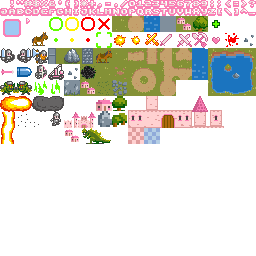
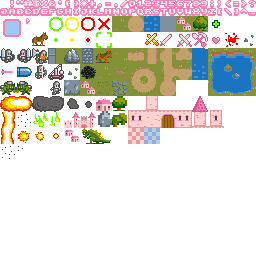
feat: variable movement speed, scorched ground, nuclaer prototype

diff --git a/src/main.ts b/src/main.ts
@@ -5,7 +5,12 @@ import { drawSprite2, drawText } from "./engine/renderUtils.ts";
 import { TileMap } from "./engine/tilemap.ts";
 import { Game } from "./game/game.ts";
 import { generateLevel } from "./game/levelGenerator.ts";
-import { FoeComponent, PlayerComponent, SpriteComponent } from "./game/components.ts";
+import {
+  FoeComponent,
+  PlayerComponent,
+  ShootComponent,
+  SpriteComponent,
+} from "./game/components.ts";
 import { inputSystem } from "./game/inputSystem.ts";
 import { moveSystem } from "./game/moveSystem.ts";
 import { enemySystem } from "./game/enemySystem.ts";
@@ -79,15 +84,18 @@ function render() {
 
     if (game.commandPreview.length > 0) {
       game.commandPreview.forEach((command, cidx) => {
+        const player = game.ecs.getComponent<PlayerComponent>(command.entity, "player")!;
+
         if (command.type === "move") {
           command.path.forEach((p, idx) => {
-            drawSprite2(renderer, p.x * 16, p.y * 16, 16 * 2 + 3, idx > 4 ? 0.2 : 1);
+            drawSprite2(renderer, p.x * 16, p.y * 16, 16 * 2 + 3, idx > player.speed - 1 ? 0.2 : 1);
           });
         }
+
         const invalid =
           cidx > 0 &&
           game.commandPreview[cidx - 1].type === "move" &&
-          (game.commandPreview[cidx - 1] as MoveCommand).path.length > 5;
+          (game.commandPreview[cidx - 1] as MoveCommand).path.length > player!.speed;
 
         if (command.type === "mine") {
           drawSprite2(
@@ -106,6 +114,17 @@ function render() {
             16 * 2 + 11,
             invalid ? 0.3 : 1,
           );
+        }
+        if (command.type === "shoot") {
+          drawSprite2(renderer, command.pos.x * 16, command.pos.y * 16, 16 * 1 + 6, 1);
+          const sprite = game.ecs.getComponent<SpriteComponent>(game.activePlayer!, "sprite")!;
+          const dx = (command.pos.x * 16 - sprite.x) / 10;
+          const dy = (command.pos.y * 16 - sprite.y) / 10;
+          for (let i = 0; i < 10; i++) {
+            const r = Math.PI / 10;
+            const h = Math.sin(i * r) * 2 * 16;
+            drawSprite2(renderer, sprite.x + dx * i, sprite.y + dy * i - h, 16 * 2 + 5, 1);
+          }
         }
       });
     }
@@ -132,6 +151,17 @@ function render() {
         );
         break;
       }
+      case "shoot": {
+        const i = currentCmd.idx;
+        const sprite = game.ecs.getComponent<SpriteComponent>(currentCmd.entity, "sprite")!;
+        const shooter = game.ecs.getComponent<ShootComponent>(currentCmd.entity, "shoot")!;
+        const dx = (currentCmd.pos.x * 16 - sprite.x) / 10;
+        const dy = (currentCmd.pos.y * 16 - sprite.y) / 10;
+        const r = Math.PI / 10;
+        const h = Math.sin(i * r) * 2 * 16;
+        const a = -Math.cos(i * r);
+        drawSprite2(renderer, sprite.x + dx * i, sprite.y + dy * i - h, shooter.bullet, 1, a);
+      }
     }
   }
 
@@ -141,6 +171,16 @@ function render() {
     16 * 16 + 2,
     "Ore: " + game.inventory.ore + "    XP: " + game.inventory.xp,
   );
+
+  drawSprite2(renderer, 16 * 10, 16 * 10, (16 * 7 + (Math.random() > 0.5 ? 0 : 16)) | 0);
+  drawSprite2(renderer, 16 * 10, 16 * 11, (16 * 7 + (Math.random() > 0.5 ? 0 : 16)) | 0);
+  drawSprite2(renderer, 16 * 10 - 8, 16 * 9, 16 * 6 + 0);
+  drawSprite2(renderer, 16 * 11 - 8, 16 * 9, 16 * 6 + 1);
+  for (let i = 0; i < 10; i++) {
+    const x = Math.random() * 16 - 8;
+    const y = Math.random() * 16 - 8;
+    drawSprite2(renderer, 16 * 10 + x * 2, 16 * 9 + y * 0.5, 16 * 8 + 1, 0.5);
+  }
 
   renderer.render();
 }

diff --git a/src/game/inputSystem.ts b/src/game/inputSystem.ts
@@ -1,5 +1,5 @@
 import { Cursor, Game } from "./game.ts";
-import { FoeComponent, PlayerComponent, SpriteComponent } from "./components.ts";
+import { FoeComponent, PlayerComponent, ShootComponent, SpriteComponent } from "./components.ts";
 import { findPath, Point } from "../engine/findPath.ts";
 import { findSprite } from "./levelGenerator.ts";
 
@@ -26,10 +26,14 @@ export function inputSystem(game: Game) {
         } else if (game.commandPreview.length > 0) {
           let chopRemaining = false;
           if (game.commandPreview[0].type === "move") {
-            if (game.commandPreview[0].path.length > 5) {
+            const player = game.ecs.getComponent<PlayerComponent>(
+              game.commandPreview[0].entity,
+              "player",
+            )!;
+            if (game.commandPreview[0].path.length > player!.speed) {
               chopRemaining = true;
             }
-            game.commandPreview[0].path = game.commandPreview[0].path.slice(0, 5);
+            game.commandPreview[0].path = game.commandPreview[0].path.slice(0, player!.speed);
           }
           if (chopRemaining) {
             game.commandQueue.push(game.commandPreview[0]);
@@ -98,10 +102,27 @@ export function inputSystem(game: Game) {
               ttl: 20,
             });
           }
-        } else {
+        } else if (lastTile === 16 * 1 + 7 && lastIndex > 0) {
           game.commandPreview = [
             { entity: game.activePlayer, type: "move", path: path.slice(0, lastIndex), idx: 0 },
           ];
+        }
+
+        const shootComponent = game.ecs.getComponent<ShootComponent>(game.activePlayer, "shoot");
+        if (shootComponent) {
+          const dx = lastPos.x - playerPos.x;
+          const dy = lastPos.y - playerPos.y;
+          const len = Math.sqrt(dx * dx + dy * dy);
+          console.log(len);
+          if (len > 5 && len < 10) {
+            game.commandPreview.pop();
+            game.commandPreview.push({
+              entity: game.activePlayer,
+              type: "shoot",
+              pos: lastPos,
+              idx: 0,
+            });
+          }
         }
       } else {
         game.commandPreview = [];

diff --git a/src/game/game.ts b/src/game/game.ts
@@ -30,35 +30,44 @@ export class Game {
     const player = ecs.createEntity();
     ecs.addComponents(
       player,
-      { type: "player", moved: false },
+      { type: "player", moved: false, speed: 5 },
       { type: "sprite", x: 3 * 16, y: 3 * 16, sprite: 16 * 3 },
     );
 
     const player2 = ecs.createEntity();
     ecs.addComponents(
       player2,
-      { type: "player", moved: false },
+      { type: "player", moved: false, speed: 5 },
       { type: "sprite", x: 2 * 16, y: 5 * 16, sprite: 16 * 3 + 2 },
     );
 
     const player3 = ecs.createEntity();
     ecs.addComponents(
       player3,
-      { type: "player", moved: false },
+      { type: "player", moved: false, speed: 5 },
       { type: "sprite", x: 2 * 16, y: 10 * 16, sprite: 16 * 4 + 2 },
+      { type: "shoot", bullet: 16 * 4 + 0 },
+    );
+
+    const player4 = ecs.createEntity();
+    ecs.addComponents(
+      player4,
+      { type: "player", moved: false, speed: 3 },
+      { type: "sprite", x: 2 * 16, y: 8 * 16, sprite: 16 * 4 + 3 },
+      { type: "shoot", bullet: 16 * 4 + 1 },
     );
 
     const foe = ecs.createEntity();
     ecs.addComponents(
       foe,
-      { type: "foe", moved: false },
+      { type: "foe", moved: false, speed: 5 },
       { type: "sprite", x: 20 * 16, y: 10 * 16, sprite: 16 * 5 + 1 },
     );
 
     const foe2 = ecs.createEntity();
     ecs.addComponents(
       foe2,
-      { type: "foe", moved: false },
+      { type: "foe", moved: false, speed: 5 },
       { type: "sprite", x: 21 * 16, y: 12 * 16, sprite: 16 * 5 + 1 },
     );
   }

diff --git a/src/game/moveSystem.ts b/src/game/moveSystem.ts
@@ -1,5 +1,5 @@
 import { Game } from "./game.ts";
-import { SpriteComponent } from "./components.ts";
+import { ShootComponent, SpriteComponent } from "./components.ts";
 
 export function moveSystem(game: Game) {
   if (game.commandQueue.length === 0) return;
@@ -33,6 +33,17 @@ export function moveSystem(game: Game) {
       }
       if (command.ttl-- === 0) {
         game.commandQueue.splice(game.commandQueue.indexOf(command), 1);
+      }
+      break;
+    }
+    case "shoot": {
+      command.idx += 0.1;
+      if (command.idx >= 10) {
+        game.commandQueue.splice(game.commandQueue.indexOf(command), 1);
+        const shootComponent = game.ecs.getComponent<ShootComponent>(command.entity, "shoot");
+        if (shootComponent?.bullet === 16 * 4 + 1) {
+          game.tilemap?.setTile(command.pos.x, command.pos.y, 16 * 4 + 5);
+        }
       }
       break;
     }

diff --git a/src/game/components.ts b/src/game/components.ts
@@ -10,6 +10,7 @@ export interface PlayerComponent {
   moved: boolean;
   movePoints: number;
   hitPoints: number;
+  speed: number;
 }
 
 export interface FoeComponent {
@@ -17,4 +18,10 @@ export interface FoeComponent {
   moved: boolean;
   movePoints: number;
   hitPoints: number;
+  speed: number;
+}
+
+export interface ShootComponent {
+  type: "shoot";
+  bullet: number;
 }

diff --git a/src/game/commands.ts b/src/game/commands.ts
@@ -22,4 +22,11 @@ export interface AttackCommand {
   ttl: number;
 }
 
-export type Command = MoveCommand | MineCommand | AttackCommand;
+export interface ShootCommand {
+  entity: Entity;
+  type: "shoot";
+  pos: Point;
+  idx: number;
+}
+
+export type Command = MoveCommand | MineCommand | AttackCommand | ShootCommand;

diff --git a/src/engine/renderUtils.ts b/src/engine/renderUtils.ts
@@ -76,8 +76,9 @@ export function drawSprite2(
   y: number,
   sprite: number,
   alpha = 1,
+  angle = 0,
 ) {
   const sy = (sprite / 16) | 0;
   const sx = sprite % 16;
-  renderer.drawSprite(x, y, sx * 16, sy * 16, 16, 16, alpha);
+  renderer.drawSprite(x, y, sx * 16, sy * 16, 16, 16, alpha, angle);
 }

diff --git a/src/game/enemySystem.ts b/src/game/enemySystem.ts
@@ -67,7 +67,7 @@ export function enemySystem(game: Game) {
         game.commandQueue.push({
           entity: foe.entity,
           type: "move",
-          path: path.slice(0, 5),
+          path: path.slice(0, foe!.speed),
           idx: 0,
         });
       }
